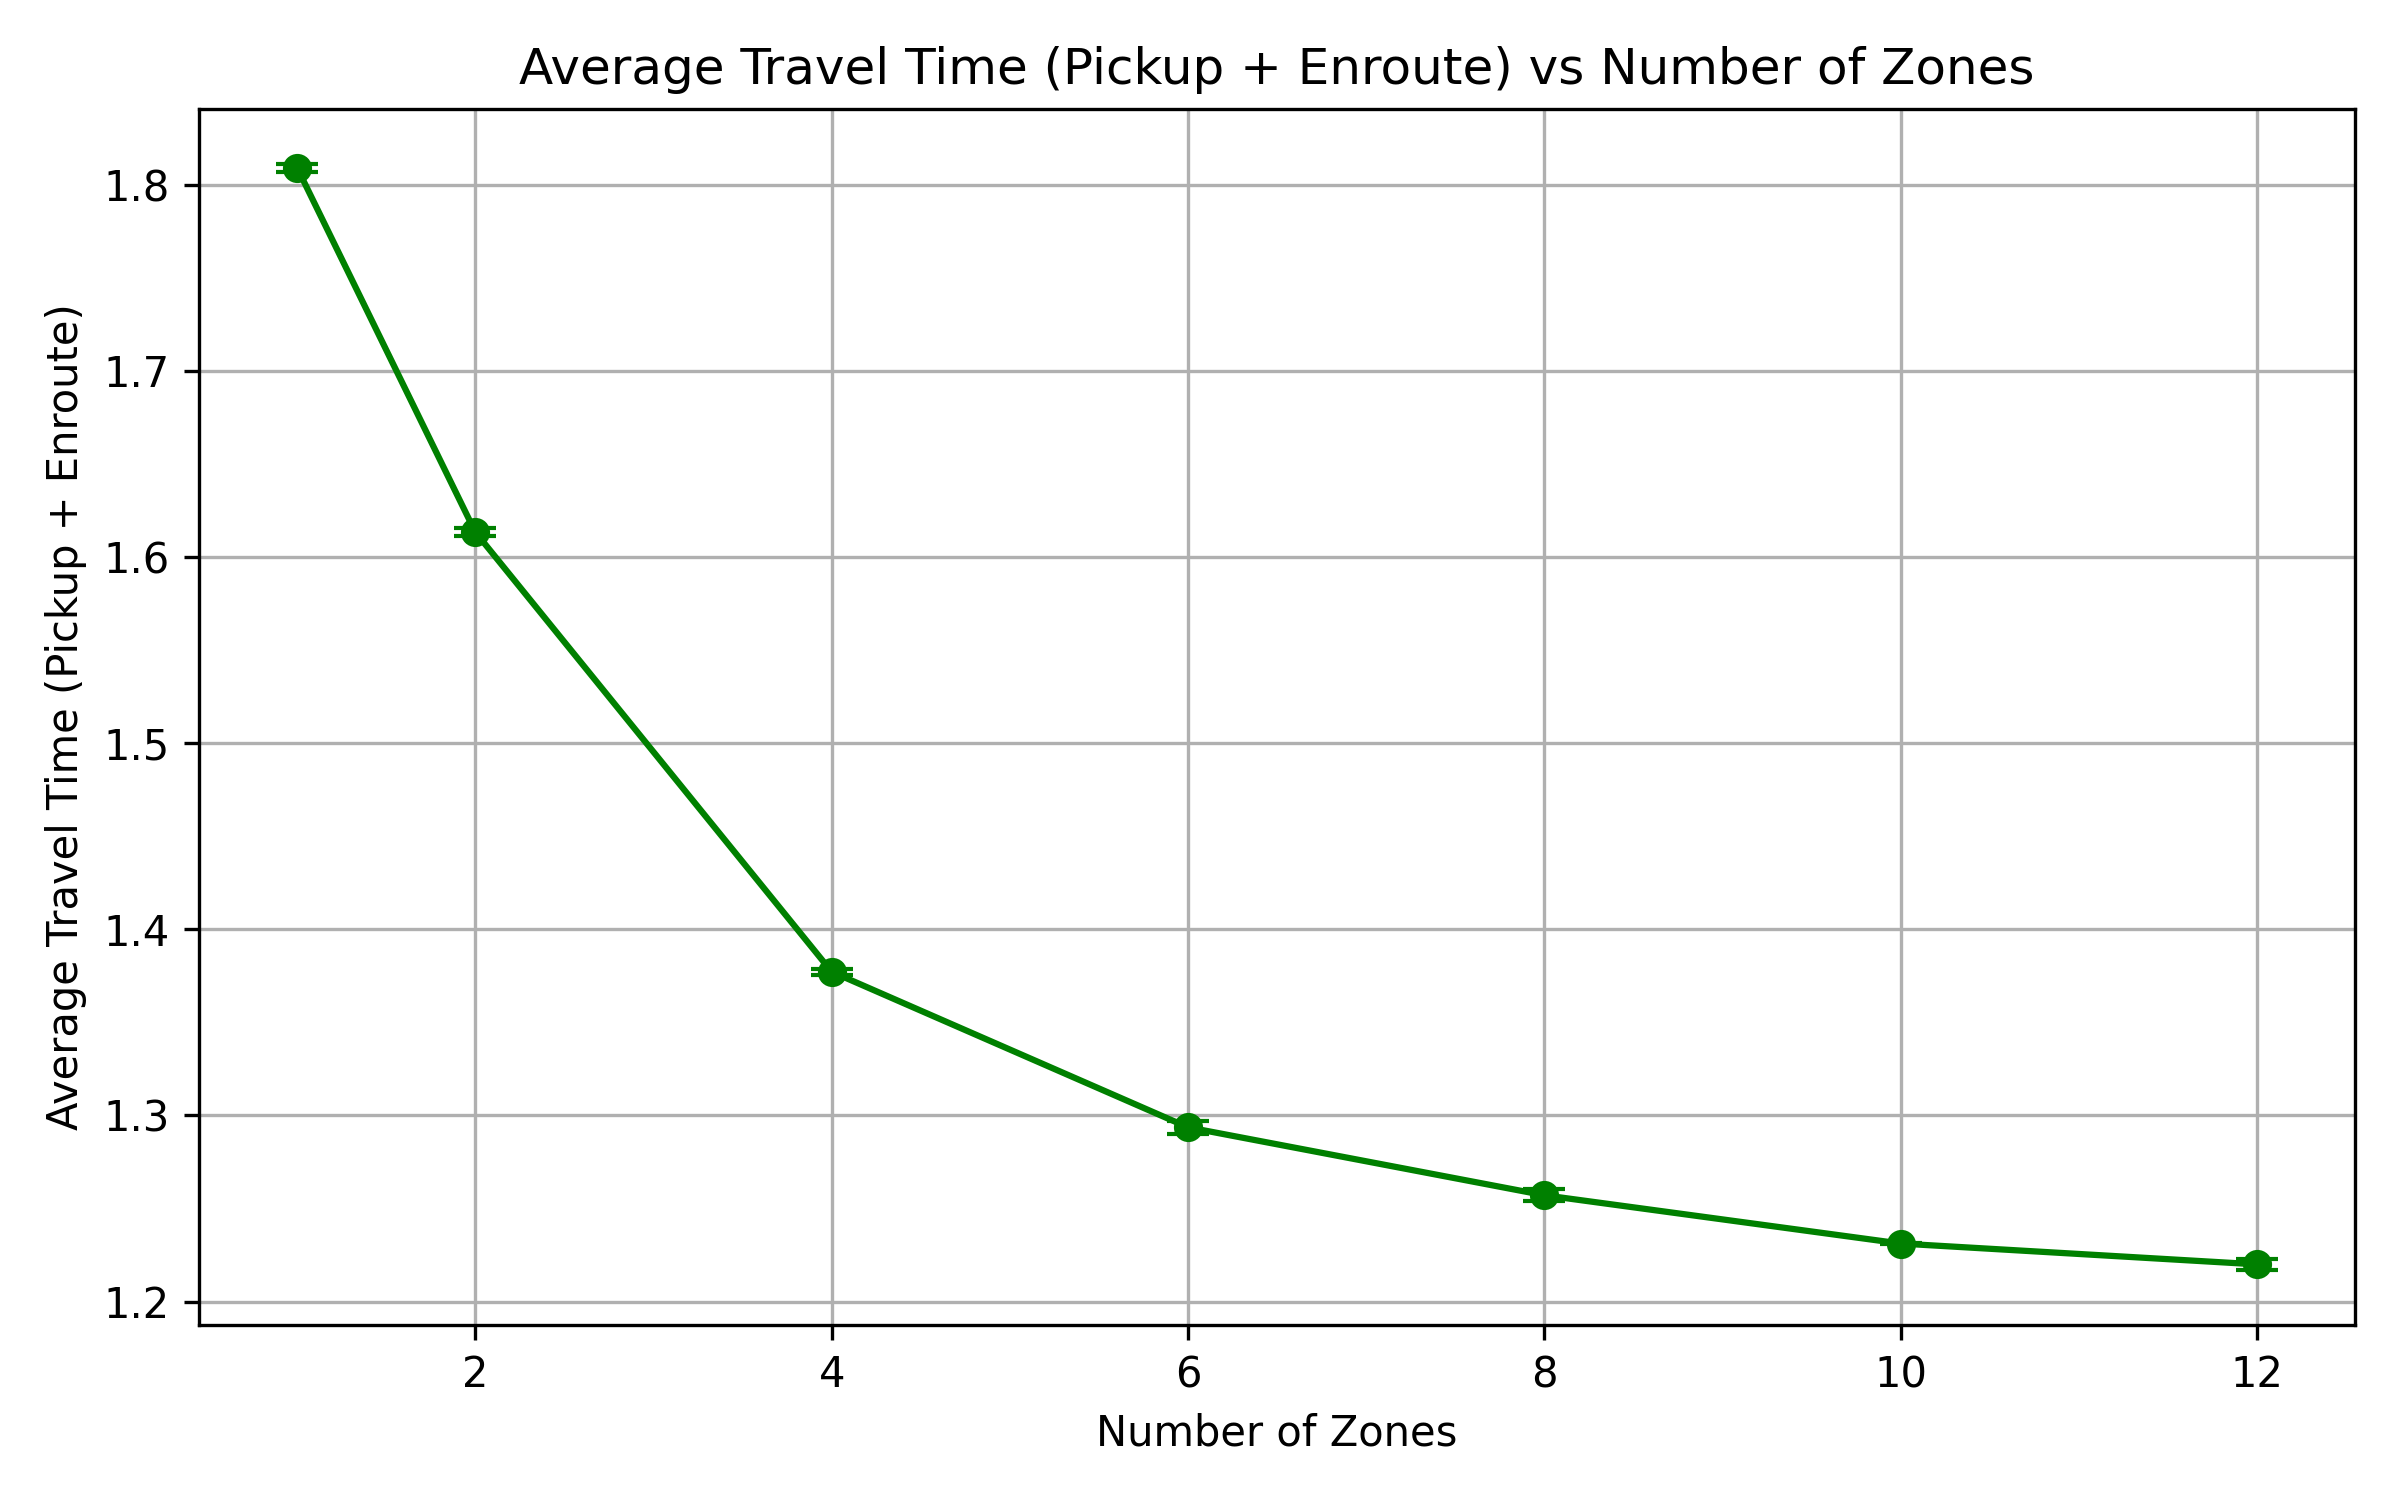
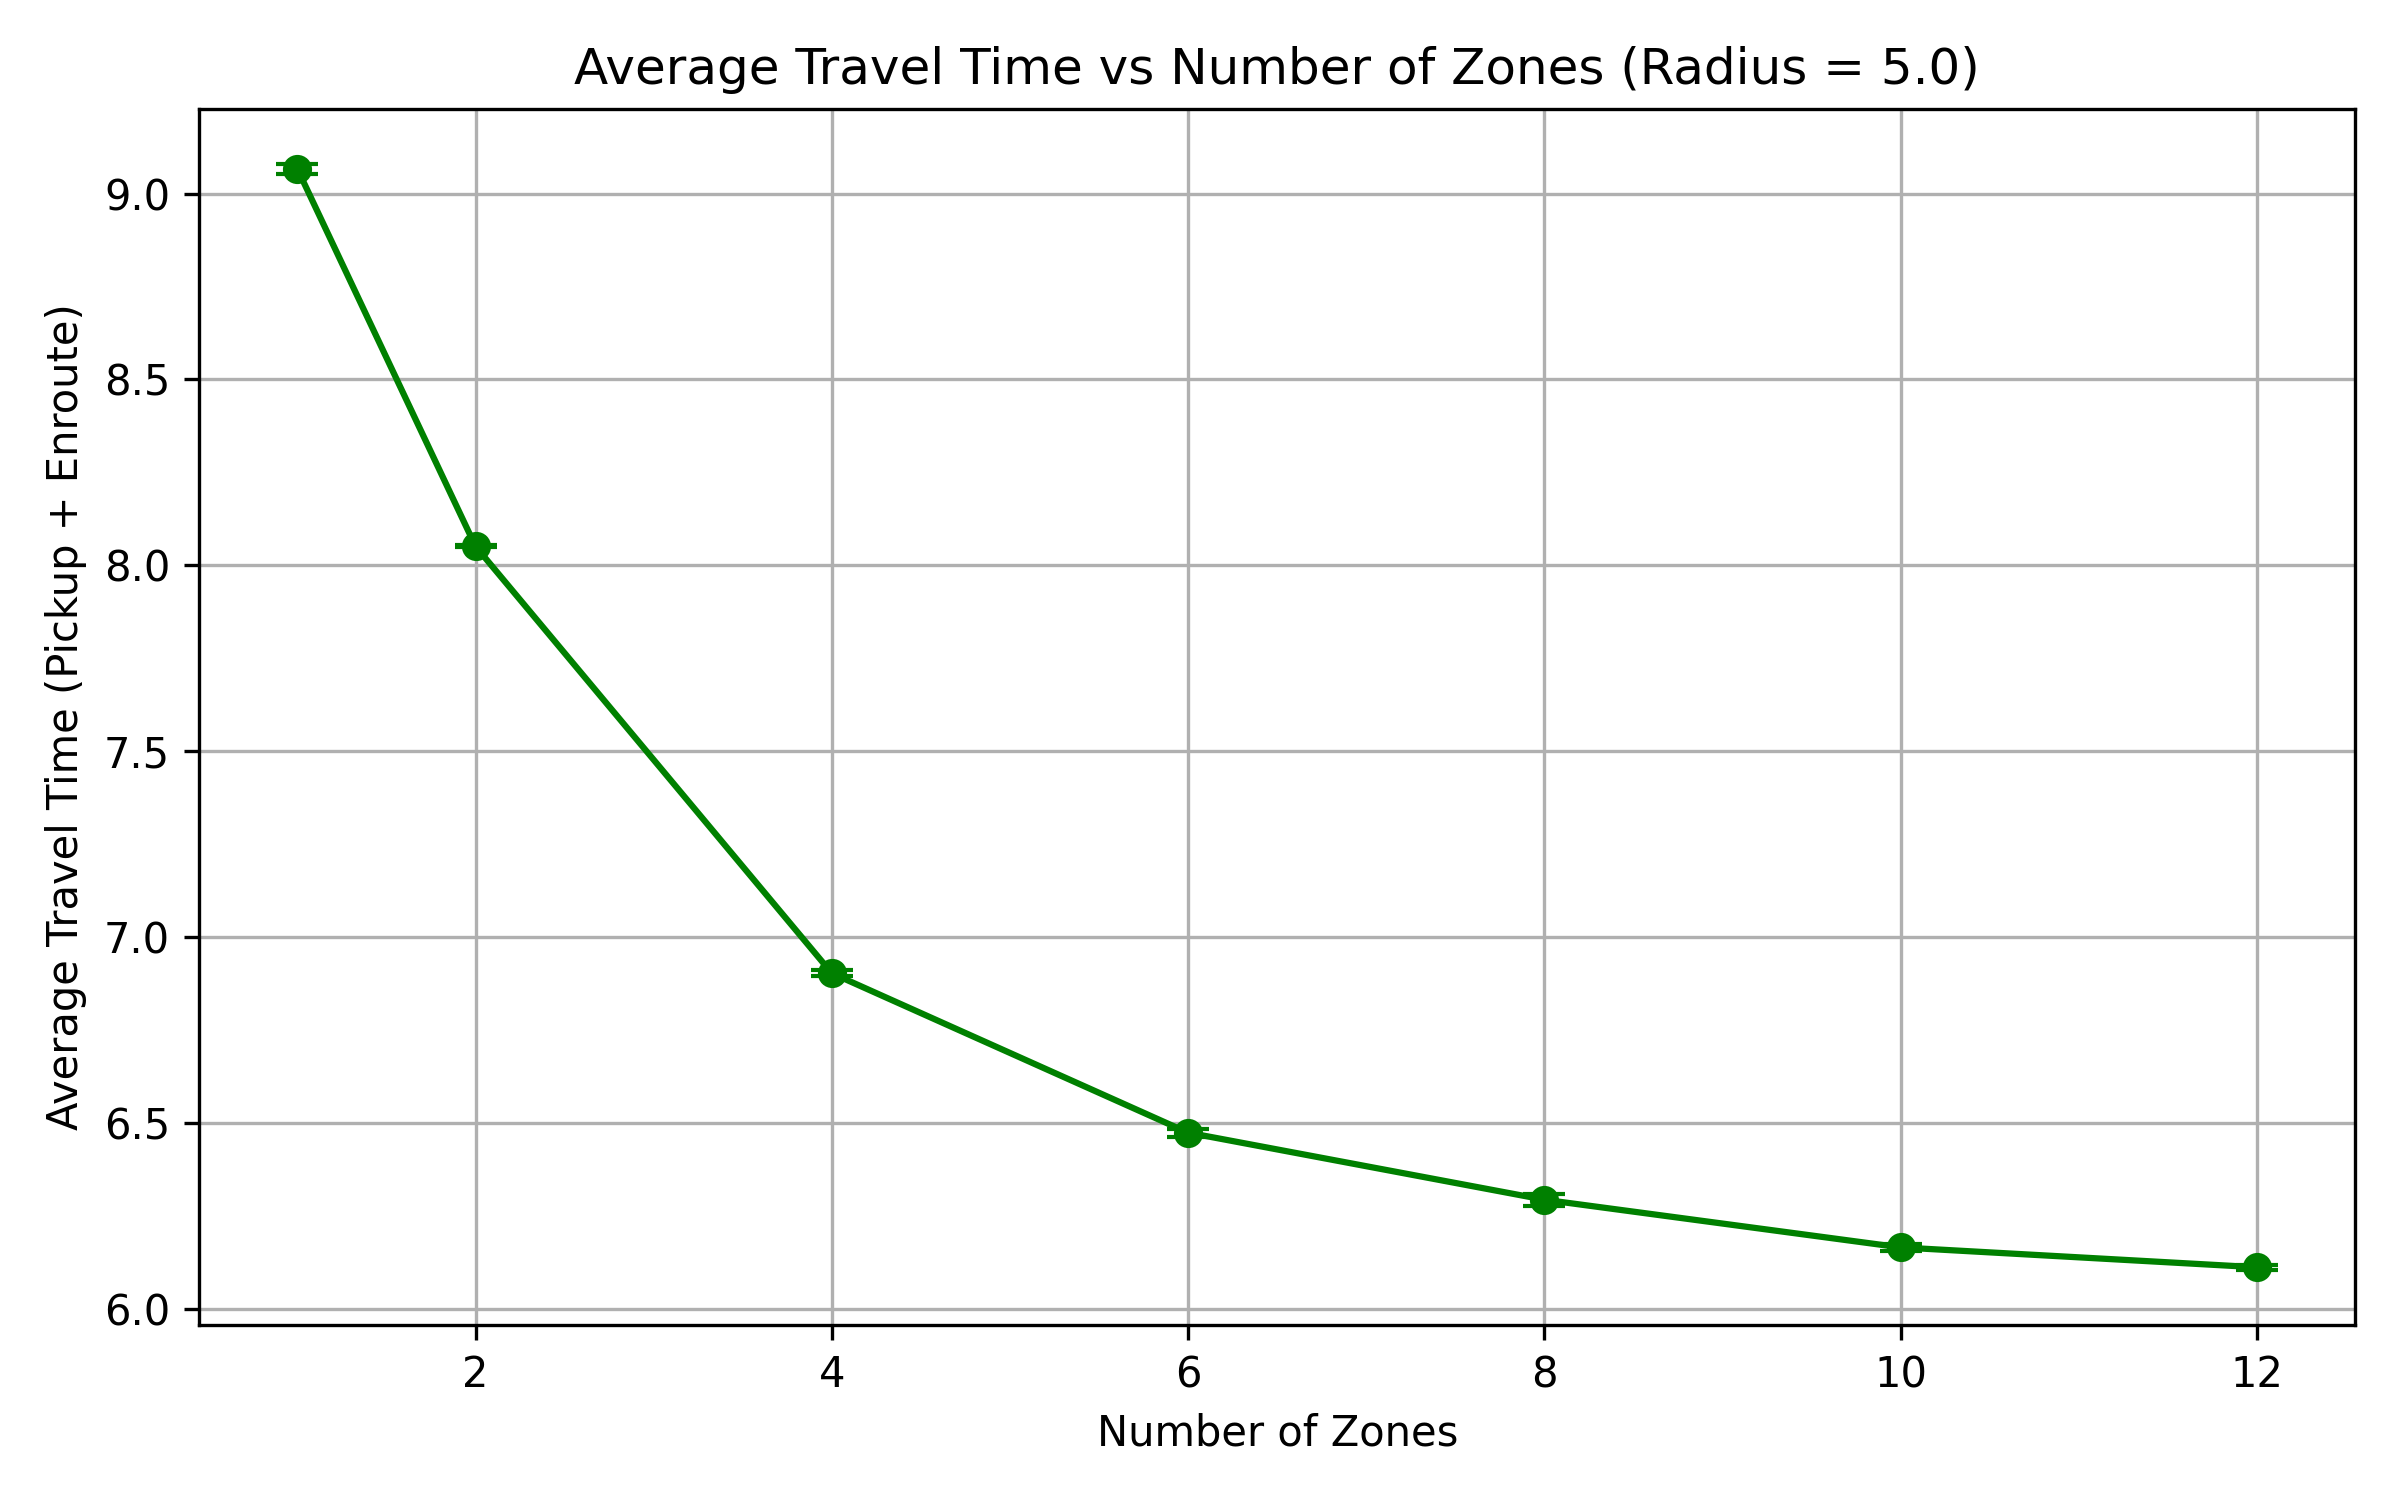
Increased Radius of disk and lowered the utilization

diff --git a/Zoning_Model.py b/Zoning_Model.py
@@ -6,7 +6,9 @@ from collections import deque
 from Baseline_Model import(SimulationBaselineModel, 
                            Rider, 
                            RiderDeparture, 
-                           distance_of_polar_coordinates)
+                           distance_of_polar_coordinates,
+                           uniform_distributed_in_disk,
+                           RiderArrival)
 
 
 class SimulationZoningModel(SimulationBaselineModel):
@@ -150,6 +152,27 @@ class SimulationZoningModel(SimulationBaselineModel):
             self.zone_stats[origin_zone_id]["queue_times"].append(rider.queue_time)
             self.zone_stats[origin_zone_id]["pickup_wait_times"].append(rider.pickup_wait_time)
             self.zone_stats[origin_zone_id]["travel_times"].append(rider.travel_time)
+    
+
+    def _when_next_rider_arrival(self):
+        """
+        Generate the next rider arrival event which follow the Poisson distribution.
+        If lambda_rate is 0, no new rider arrival will be scheduled.
+        """
+        if self.lambda_rate <= 0:
+            return
+            
+        interval_rider_time = np.random.exponential(1 / self.lambda_rate)
+        event_time = self.current_time + interval_rider_time
+        rider_id = len(self.rider_arrival_times) + len(self.rider_times) + 1
+        
+        origin = uniform_distributed_in_disk(self.radius)
+        destination = uniform_distributed_in_disk(self.radius)
+        
+        period = int(event_time / self.period_length)
+        
+        event = RiderArrival(event_time, rider_id, origin, destination, period)
+        heapq.heappush(self.event_queue, event)
     
 
     def run(self):
@@ -324,7 +347,8 @@ class SimulationZoningModel(SimulationBaselineModel):
                     mu_rate=self.mu_rate,
                     n_zones=n_zones,
                     sim_duration=sim_duration,
-                    warmup_period=self.warmup_period
+                    warmup_period=self.warmup_period,
+                    radius=self.radius
                 )
                 
                 result = sim.run()
@@ -403,7 +427,8 @@ class SimulationZoningModel(SimulationBaselineModel):
                         mu_rate=base_mu_rate,
                         n_zones=n_zones,
                         sim_duration=sim_duration,
-                        warmup_period=self.warmup_period
+                        warmup_period=self.warmup_period,
+                        radius=self.radius
                     )
                     
                     result = sim.run()
@@ -442,7 +467,8 @@ if __name__ == "__main__":
         mu_rate=6.0, 
         n_zones=4,
         sim_duration=5000,
-        warmup_period=500
+        warmup_period=500,
+        radius=5.0
     )
     
     results = zoning_model.run()
@@ -476,7 +502,7 @@ if __name__ == "__main__":
     
     utilization_results = zoning_model.run_utilization_comparison(
         zone_numbers=[1, 2, 4, 6, 8, 10, 12],
-        utilization_rates=[0.1, 0.2, 0.3, 0.4, 0.5]
+        utilization_rates=[0, 0.05, 0.1, 0.15, 0.2, 0.25, 0.3, 0.35, 0.4]
     )
     
     plt.figure(figsize=(12, 5))
@@ -495,7 +521,7 @@ if __name__ == "__main__":
     plt.errorbar(zone_numbers, avg_times, yerr=std_times, fmt='o-', capsize=5)
     plt.xlabel('Number of Zones')
     plt.ylabel('Average Rider Time')
-    plt.title('Average Rider Time vs Number of Zones')
+    plt.title(f'Average Rider Time vs Number of Zones (Radius = {zoning_model.radius})')
     plt.grid(True)
     
     plt.subplot(1, 2, 2)
@@ -511,7 +537,7 @@ if __name__ == "__main__":
     plt.errorbar(zone_numbers, match_rates, yerr=std_rates, fmt='o-', capsize=5)
     plt.xlabel('Number of Zones')
     plt.ylabel('Driver Matching Rate')
-    plt.title('Driver Matching Rate vs Number of Zones')
+    plt.title(f'Driver Matching Rate vs Number of Zones (Radius = {zoning_model.radius})')
     plt.grid(True)
     
     plt.tight_layout()
@@ -538,7 +564,7 @@ if __name__ == "__main__":
     )
     plt.xlabel('Number of Zones')
     plt.ylabel('Average Travel Time (Pickup + Enroute)')
-    plt.title('Average Travel Time (Pickup + Enroute) vs Number of Zones')
+    plt.title(f'Average Travel Time vs Number of Zones (Radius = {zoning_model.radius})')
     plt.grid(True)
     
     plt.tight_layout()
@@ -565,7 +591,7 @@ if __name__ == "__main__":
     
     plt.xlabel('Utilization Rate')
     plt.ylabel('Average Rider Time')
-    plt.title('Average Rider Time vs Utilization Rate')
+    plt.title(f'Average Rider Time vs Utilization Rate (Radius = {zoning_model.radius})')
     plt.legend()
     plt.grid(True)
     
